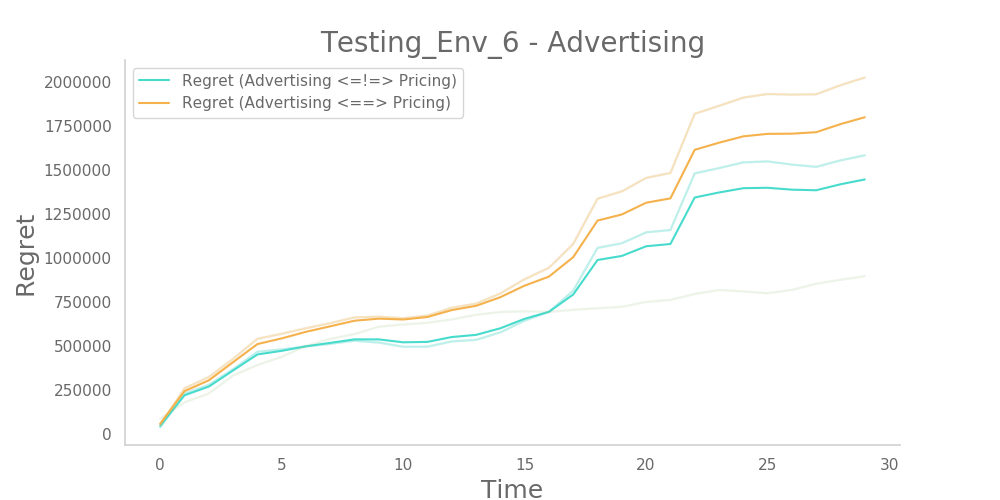
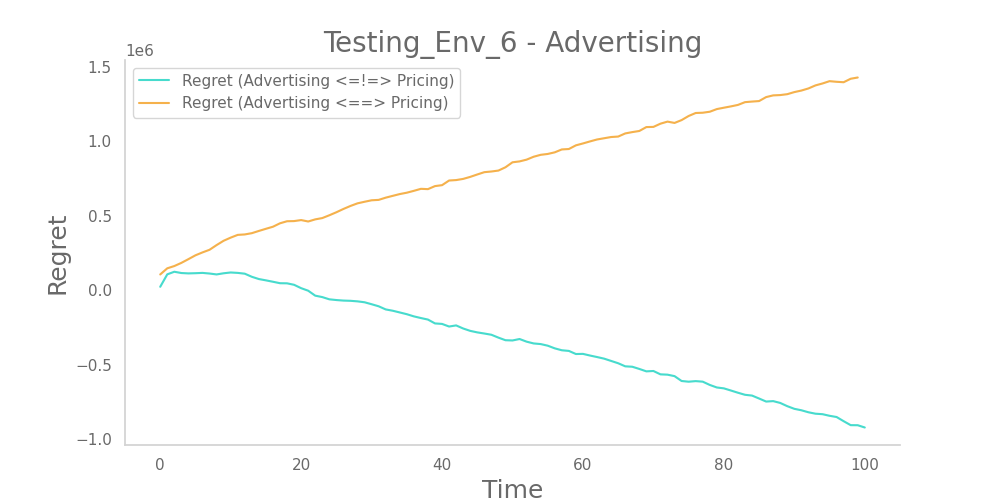
work in progress

diff --git a/project/part_6/BudgetAllocator.py b/project/part_6/BudgetAllocator.py
@@ -38,13 +38,11 @@ class BudgetAllocator:
             Initialize allocations for day zero
         """
         avg = 1 / self.n_subcampaigns
-        return [avg, avg, avg]
+        allocation = [avg, avg, avg]
+        self.msh.update_all_subcampaign_handlers(allocation)
+        return allocation
 
     def update(self):
-
-        self.msh.update_all_subcampaign_handlers(self.best_allocation)
-
-        self.regret.append(self.optimal_total_revenue - self.msh.daily_revenue)
 
         table_all_subs = np.ndarray(shape=(0, len(self.msh.subcampaigns_handlers[0].advertising.env.bids)),
                                     dtype=np.float32)
@@ -53,8 +51,13 @@ class BudgetAllocator:
             learner_clicks = subcampaign_handler.get_updated_parameters().means
 
             n_clicks = subcampaign_handler.total_clicks
-            v = subcampaign_handler.total_revenue / n_clicks if n_clicks != 0 else 0
+            v = subcampaign_handler.total_revenue if n_clicks != 0 else 0
             revenue_clicks = np.multiply(learner_clicks, v) if self.enable_pricing else learner_clicks
+
+            if subcampaign_handler.advertising.sub_idx == 5:
+                subcampaign_handler.advertising.learner.plot(
+                    subcampaign_handler.advertising.env.subs[subcampaign_handler.advertising.sub_idx].means['phase_0'],
+                    sigma_scale_factor=5)
 
             table_all_subs = np.append(table_all_subs, np.atleast_2d(revenue_clicks.T), 0)
 
@@ -63,6 +66,10 @@ class BudgetAllocator:
 
         if round(sum(self.best_allocation), 3) != 1:
             raise Exception("Allocation unfeasible")
+
+        # updates
+        self.msh.update_all_subcampaign_handlers(self.best_allocation)
+        self.regret.append(self.optimal_total_revenue - self.msh.daily_revenue)
 
     def get_optimal_total_revenue(self):
         """

diff --git a/project/part_6/Testing_Env_6.py b/project/part_6/Testing_Env_6.py
@@ -15,7 +15,7 @@ from project.part_6.BudgetAllocator import BudgetAllocator
 
 np.random.seed(0)
 
-enable_pricing = False
+enable_pricing = True
 
 
 def execute_experiment(args):
@@ -24,8 +24,8 @@ def execute_experiment(args):
     mch = args['multiclasshandler']
 
     budget_allocator = BudgetAllocator(multi_class_handler=mch,
-                                       n_arms_pricing=16,
-                                       n_arms_advertising=15,
+                                       n_arms_pricing=20,
+                                       n_arms_advertising=20,
                                        enable_pricing=enable_pricing)
 
     current_day, done = env.reset()
@@ -92,7 +92,7 @@ if __name__ == '__main__':
     plt.legend()
     plt.show()
 
-    n_experiments = 10  # the number is small to do a raw test, otherwise set it to 1000
+    n_experiments = 1  # the number is small to do a raw test, otherwise set it to 1000
     agnostic_regret_per_experiment = []  # collect all the regrets achieved
     regret_per_experiment = []
     args = [{'environment': copy.deepcopy(base_env), 'index': idx, 'multiclasshandler': mch}
@@ -111,7 +111,8 @@ if __name__ == '__main__':
 
     for agnostic_regret in agnostic_regret_per_experiment:
         plt.plot(np.cumsum(agnostic_regret), alpha=0.05, c='C2')
-    plt.plot(np.cumsum(np.mean(agnostic_regret_per_experiment, axis=0)), c='C2', label='Regret (Advertising <=!=> Pricing)')
+    plt.plot(np.cumsum(np.mean(agnostic_regret_per_experiment, axis=0)), c='C2',
+             label='Regret (Advertising <=!=> Pricing)')
 
     for regret in regret_per_experiment:
         plt.plot(np.cumsum(regret), alpha=0.05, c='C3')

diff --git a/project/dia_pckg/SubCampaign.py b/project/dia_pckg/SubCampaign.py
@@ -19,8 +19,8 @@ class SubCampaign:
         self.product = product
         self.campaign = campaign
 
-        self.param_for_phase = np.random.choice(np.arange(2, 7, 0.01), 3)
-        self.max_value_phase = np.random.choice(np.arange(0.3, 1, 0.01), 3)
+        self.param_for_phase = np.random.choice(np.arange(3, 7, 1), 3)
+        self.max_value_phase = np.random.choice(np.arange(0.5, 1, 0.1), 3)
 
         self.means = {f'phase_{i}': self.phase_curve(bids, phase=i) for i in range(3)}
         self.sigmas = {f'phase_{i}': np.multiply(self.means[f'phase_{i}'], sigma) for i in range(3)}

diff --git a/project/part_6/SubCampaignHandler.py b/project/part_6/SubCampaignHandler.py
@@ -24,9 +24,11 @@ class SubCampaignHandler:
 
         self.class_name = class_name
 
+        self.n_arms_advertising = n_arms_advertising
+
         self.pricing = Pricing(class_name=class_name, multi_class_handler=multi_class_handler, n_arms=n_arms_pricing)
         self.advertising = Advertising(bidding_environment=bidding_environment,
-                                       n_arms=n_arms_advertising,
+                                       n_arms=self.n_arms_advertising,
                                        subcampaign_idx=subcampaign_idx)
 
         self.total_revenue = 0

diff --git a/project/part_2/GPTS_Learner.py b/project/part_2/GPTS_Learner.py
@@ -16,7 +16,7 @@ class GPTS_Learner(Learner):
         self.sigmas = np.full(self.means.shape, 10)
         self.pulled_arms = []
 
-        alpha = 1.0
+        alpha = 10.0
         kernel = C(1.0, (1e-3, 1e3)) * RBF(1.0, (1e-3, 1e3))
         self.gp = GaussianProcessRegressor(kernel=kernel,
                                            alpha=alpha ** 2,

diff --git a/project/dia_pckg/Config.py b/project/dia_pckg/Config.py
@@ -4,11 +4,11 @@
 
 # campaign
 initial_date = '20200101'
-n_days = 30
+n_days = 100
 
 # Seller wallet and ambitions
 seller_max_budget = 20000  # $
-max_n_clicks = 2000
+max_n_clicks = 1000
 avg_users_per_day = 100  # this param must be changed after budget allocation available!
 
 # one product to sell
